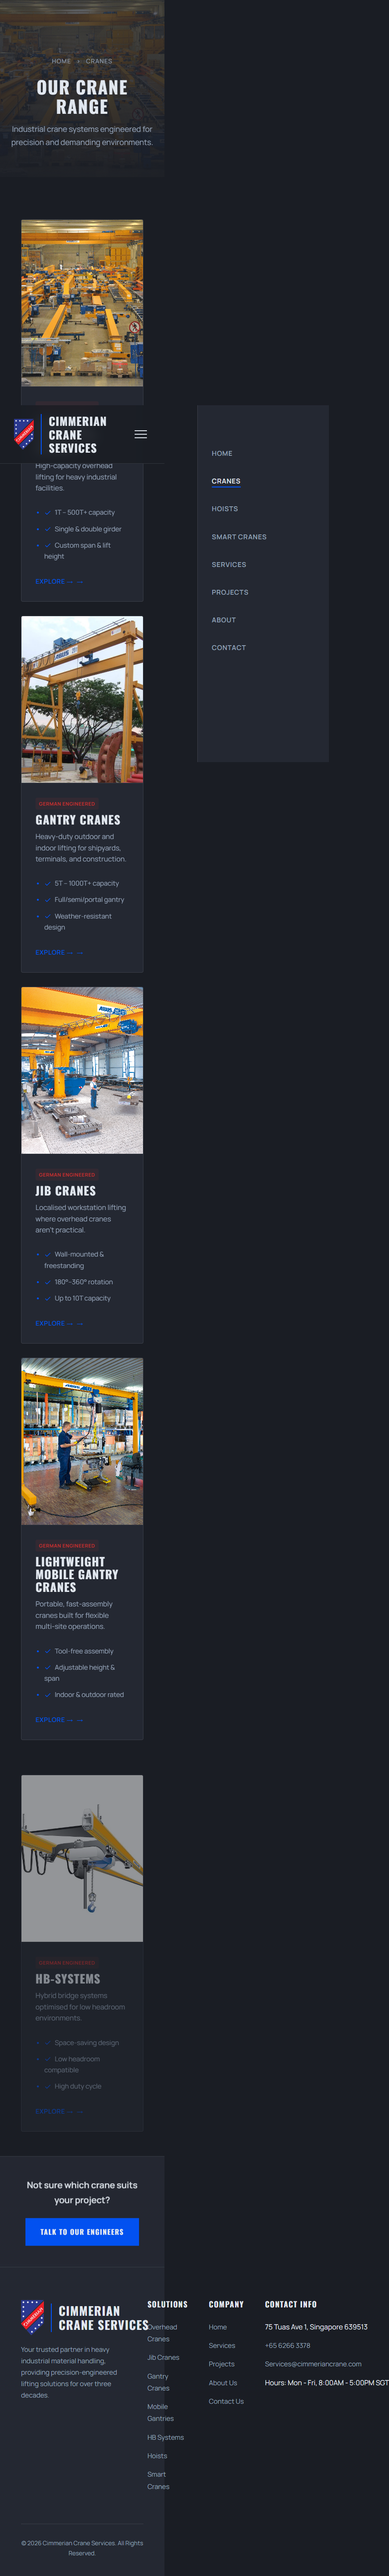
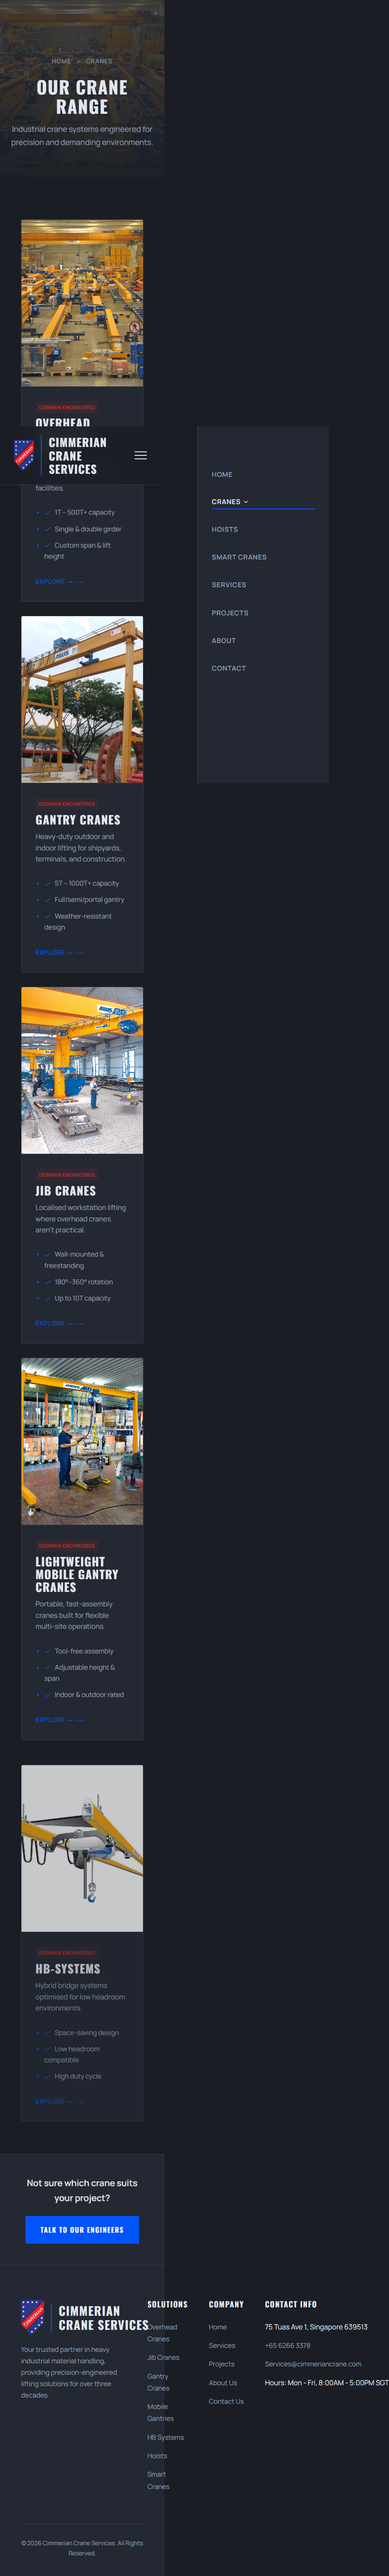
Add dropdown navigation for crane subpages
Add a hover-to-expand dropdown under the "Cranes" nav item across all
pages, with links to Overhead Cranes, Gantry Cranes, Jib Cranes, Mobile
Gantries, and HB Systems. Includes mobile tap-to-expand support.

diff --git a/smart-cranes.html b/smart-cranes.html
@@ -1,4 +1,4 @@
-<!DOCTYPE html>
+<!DOCTYPE html>
 <html lang="en">
 <head>
   <meta charset="UTF-8">
@@ -532,7 +532,19 @@
       <nav>
         <ul class="nav-menu">
           <li><a href="index.html" class="nav-link">Home</a></li>
-          <li><a href="cranes.html" class="nav-link">Cranes</a></li>
+          <li class="nav-item has-dropdown">
+            <a href="cranes.html" class="nav-link dropdown-toggle">
+              Cranes
+              <svg class="dropdown-chevron" width="14" height="14" viewBox="0 0 24 24" fill="none" stroke="currentColor" stroke-width="2.5" stroke-linecap="round" stroke-linejoin="round"><path d="m6 9 6 6 6-6"/></svg>
+            </a>
+            <ul class="dropdown-menu">
+              <li><a href="cranes/overhead-cranes.html">Overhead Cranes</a></li>
+              <li><a href="cranes/gantry-cranes.html">Gantry Cranes</a></li>
+              <li><a href="cranes/jib-cranes.html">Jib Cranes</a></li>
+              <li><a href="cranes/mobile-gantry-cranes.html">Mobile Gantries</a></li>
+              <li><a href="cranes/hb-systems.html">HB Systems</a></li>
+            </ul>
+          </li>
           <li><a href="hoists.html" class="nav-link">Hoists</a></li>
           <li><a href="smart-cranes.html" class="nav-link active">Smart Cranes</a></li>
           <li><a href="services.html" class="nav-link">Services</a></li>
@@ -954,3 +966,5 @@
   <script src="script.js"></script>
 </body>
 </html>
+
+

diff --git a/script.js b/script.js
@@ -25,11 +25,35 @@ document.addEventListener('DOMContentLoaded', () => {
       navMenu.classList.toggle('active');
     });
 
-    // Close menu when clicking a link
-    document.querySelectorAll('.nav-link').forEach(link => {
+    // Mobile Dropdown Toggle
+    const dropdownToggles = document.querySelectorAll('.dropdown-toggle');
+
+    dropdownToggles.forEach(toggle => {
+      toggle.addEventListener('click', (e) => {
+        // Only intercept on mobile to allow expansion
+        if (window.innerWidth <= 768) {
+          e.preventDefault();
+          const parent = toggle.parentElement;
+          // Close other open dropdowns
+          document.querySelectorAll('.nav-item.has-dropdown').forEach(item => {
+            if (item !== parent) {
+              item.classList.remove('active');
+            }
+          });
+          parent.classList.toggle('active');
+        }
+      });
+    });
+
+    // Close menu when clicking a link (including dropdown links)
+    document.querySelectorAll('.nav-link, .dropdown-menu a').forEach(link => {
       link.addEventListener('click', () => {
         hamburger.classList.remove('active');
         navMenu.classList.remove('active');
+        // Also close any open dropdowns
+        document.querySelectorAll('.nav-item.has-dropdown').forEach(item => {
+          item.classList.remove('active');
+        });
       });
     });
   }

diff --git a/cranes.html b/cranes.html
@@ -51,7 +51,19 @@
       <nav>
         <ul class="nav-menu">
           <li><a href="index.html" class="nav-link">Home</a></li>
-          <li><a href="cranes.html" class="nav-link active">Cranes</a></li>
+          <li class="nav-item has-dropdown">
+            <a href="cranes.html" class="nav-link active dropdown-toggle">
+              Cranes
+              <svg class="dropdown-chevron" width="14" height="14" viewBox="0 0 24 24" fill="none" stroke="currentColor" stroke-width="2.5" stroke-linecap="round" stroke-linejoin="round"><path d="m6 9 6 6 6-6"/></svg>
+            </a>
+            <ul class="dropdown-menu">
+              <li><a href="cranes/overhead-cranes.html">Overhead Cranes</a></li>
+              <li><a href="cranes/gantry-cranes.html">Gantry Cranes</a></li>
+              <li><a href="cranes/jib-cranes.html">Jib Cranes</a></li>
+              <li><a href="cranes/mobile-gantry-cranes.html">Mobile Gantries</a></li>
+              <li><a href="cranes/hb-systems.html">HB Systems</a></li>
+            </ul>
+          </li>
           <li><a href="hoists.html" class="nav-link">Hoists</a></li>
           <li><a href="smart-cranes.html" class="nav-link">Smart Cranes</a></li>
           <li><a href="services.html" class="nav-link">Services</a></li>
@@ -241,3 +253,5 @@
   <script src="script.js"></script>
 </body>
 </html>
+
+

diff --git a/cranes/gantry-cranes.html b/cranes/gantry-cranes.html
@@ -52,7 +52,19 @@
       <nav>
         <ul class="nav-menu">
           <li><a href="index.html" class="nav-link">Home</a></li>
-          <li><a href="cranes.html" class="nav-link active">Cranes</a></li>
+          <li class="nav-item has-dropdown">
+            <a href="cranes.html" class="nav-link active dropdown-toggle">
+              Cranes
+              <svg class="dropdown-chevron" width="14" height="14" viewBox="0 0 24 24" fill="none" stroke="currentColor" stroke-width="2.5" stroke-linecap="round" stroke-linejoin="round"><path d="m6 9 6 6 6-6"/></svg>
+            </a>
+            <ul class="dropdown-menu">
+              <li><a href="cranes/overhead-cranes.html">Overhead Cranes</a></li>
+              <li><a href="cranes/gantry-cranes.html">Gantry Cranes</a></li>
+              <li><a href="cranes/jib-cranes.html">Jib Cranes</a></li>
+              <li><a href="cranes/mobile-gantry-cranes.html">Mobile Gantries</a></li>
+              <li><a href="cranes/hb-systems.html">HB Systems</a></li>
+            </ul>
+          </li>
           <li><a href="hoists.html" class="nav-link">Hoists</a></li>
           <li><a href="smart-cranes.html" class="nav-link">Smart Cranes</a></li>
           <li><a href="services.html" class="nav-link">Services</a></li>
@@ -305,3 +317,5 @@
   <script src="script.js"></script>
 </body>
 </html>
+
+

diff --git a/cranes/hb-systems.html b/cranes/hb-systems.html
@@ -52,7 +52,19 @@
       <nav>
         <ul class="nav-menu">
           <li><a href="index.html" class="nav-link">Home</a></li>
-          <li><a href="cranes.html" class="nav-link active">Cranes</a></li>
+          <li class="nav-item has-dropdown">
+            <a href="cranes.html" class="nav-link active dropdown-toggle">
+              Cranes
+              <svg class="dropdown-chevron" width="14" height="14" viewBox="0 0 24 24" fill="none" stroke="currentColor" stroke-width="2.5" stroke-linecap="round" stroke-linejoin="round"><path d="m6 9 6 6 6-6"/></svg>
+            </a>
+            <ul class="dropdown-menu">
+              <li><a href="cranes/overhead-cranes.html">Overhead Cranes</a></li>
+              <li><a href="cranes/gantry-cranes.html">Gantry Cranes</a></li>
+              <li><a href="cranes/jib-cranes.html">Jib Cranes</a></li>
+              <li><a href="cranes/mobile-gantry-cranes.html">Mobile Gantries</a></li>
+              <li><a href="cranes/hb-systems.html">HB Systems</a></li>
+            </ul>
+          </li>
           <li><a href="hoists.html" class="nav-link">Hoists</a></li>
           <li><a href="smart-cranes.html" class="nav-link">Smart Cranes</a></li>
           <li><a href="services.html" class="nav-link">Services</a></li>
@@ -305,3 +317,5 @@
   <script src="script.js"></script>
 </body>
 </html>
+
+

diff --git a/cranes/jib-cranes.html b/cranes/jib-cranes.html
@@ -52,7 +52,19 @@
       <nav>
         <ul class="nav-menu">
           <li><a href="index.html" class="nav-link">Home</a></li>
-          <li><a href="cranes.html" class="nav-link active">Cranes</a></li>
+          <li class="nav-item has-dropdown">
+            <a href="cranes.html" class="nav-link active dropdown-toggle">
+              Cranes
+              <svg class="dropdown-chevron" width="14" height="14" viewBox="0 0 24 24" fill="none" stroke="currentColor" stroke-width="2.5" stroke-linecap="round" stroke-linejoin="round"><path d="m6 9 6 6 6-6"/></svg>
+            </a>
+            <ul class="dropdown-menu">
+              <li><a href="cranes/overhead-cranes.html">Overhead Cranes</a></li>
+              <li><a href="cranes/gantry-cranes.html">Gantry Cranes</a></li>
+              <li><a href="cranes/jib-cranes.html">Jib Cranes</a></li>
+              <li><a href="cranes/mobile-gantry-cranes.html">Mobile Gantries</a></li>
+              <li><a href="cranes/hb-systems.html">HB Systems</a></li>
+            </ul>
+          </li>
           <li><a href="hoists.html" class="nav-link">Hoists</a></li>
           <li><a href="smart-cranes.html" class="nav-link">Smart Cranes</a></li>
           <li><a href="services.html" class="nav-link">Services</a></li>
@@ -305,3 +317,5 @@
   <script src="script.js"></script>
 </body>
 </html>
+
+

diff --git a/cranes/mobile-gantry-cranes.html b/cranes/mobile-gantry-cranes.html
@@ -52,7 +52,19 @@
       <nav>
         <ul class="nav-menu">
           <li><a href="index.html" class="nav-link">Home</a></li>
-          <li><a href="cranes.html" class="nav-link active">Cranes</a></li>
+          <li class="nav-item has-dropdown">
+            <a href="cranes.html" class="nav-link active dropdown-toggle">
+              Cranes
+              <svg class="dropdown-chevron" width="14" height="14" viewBox="0 0 24 24" fill="none" stroke="currentColor" stroke-width="2.5" stroke-linecap="round" stroke-linejoin="round"><path d="m6 9 6 6 6-6"/></svg>
+            </a>
+            <ul class="dropdown-menu">
+              <li><a href="cranes/overhead-cranes.html">Overhead Cranes</a></li>
+              <li><a href="cranes/gantry-cranes.html">Gantry Cranes</a></li>
+              <li><a href="cranes/jib-cranes.html">Jib Cranes</a></li>
+              <li><a href="cranes/mobile-gantry-cranes.html">Mobile Gantries</a></li>
+              <li><a href="cranes/hb-systems.html">HB Systems</a></li>
+            </ul>
+          </li>
           <li><a href="hoists.html" class="nav-link">Hoists</a></li>
           <li><a href="smart-cranes.html" class="nav-link">Smart Cranes</a></li>
           <li><a href="services.html" class="nav-link">Services</a></li>
@@ -305,3 +317,5 @@
   <script src="script.js"></script>
 </body>
 </html>
+
+

diff --git a/cranes/overhead-cranes.html b/cranes/overhead-cranes.html
@@ -52,7 +52,19 @@
       <nav>
         <ul class="nav-menu">
           <li><a href="index.html" class="nav-link">Home</a></li>
-          <li><a href="cranes.html" class="nav-link active">Cranes</a></li>
+          <li class="nav-item has-dropdown">
+            <a href="cranes.html" class="nav-link active dropdown-toggle">
+              Cranes
+              <svg class="dropdown-chevron" width="14" height="14" viewBox="0 0 24 24" fill="none" stroke="currentColor" stroke-width="2.5" stroke-linecap="round" stroke-linejoin="round"><path d="m6 9 6 6 6-6"/></svg>
+            </a>
+            <ul class="dropdown-menu">
+              <li><a href="cranes/overhead-cranes.html">Overhead Cranes</a></li>
+              <li><a href="cranes/gantry-cranes.html">Gantry Cranes</a></li>
+              <li><a href="cranes/jib-cranes.html">Jib Cranes</a></li>
+              <li><a href="cranes/mobile-gantry-cranes.html">Mobile Gantries</a></li>
+              <li><a href="cranes/hb-systems.html">HB Systems</a></li>
+            </ul>
+          </li>
           <li><a href="hoists.html" class="nav-link">Hoists</a></li>
           <li><a href="smart-cranes.html" class="nav-link">Smart Cranes</a></li>
           <li><a href="services.html" class="nav-link">Services</a></li>
@@ -305,3 +317,5 @@
   <script src="script.js"></script>
 </body>
 </html>
+
+

diff --git a/hoists.html b/hoists.html
@@ -51,7 +51,19 @@
       <nav>
         <ul class="nav-menu">
           <li><a href="index.html" class="nav-link">Home</a></li>
-          <li><a href="cranes.html" class="nav-link">Cranes</a></li>
+          <li class="nav-item has-dropdown">
+            <a href="cranes.html" class="nav-link dropdown-toggle">
+              Cranes
+              <svg class="dropdown-chevron" width="14" height="14" viewBox="0 0 24 24" fill="none" stroke="currentColor" stroke-width="2.5" stroke-linecap="round" stroke-linejoin="round"><path d="m6 9 6 6 6-6"/></svg>
+            </a>
+            <ul class="dropdown-menu">
+              <li><a href="cranes/overhead-cranes.html">Overhead Cranes</a></li>
+              <li><a href="cranes/gantry-cranes.html">Gantry Cranes</a></li>
+              <li><a href="cranes/jib-cranes.html">Jib Cranes</a></li>
+              <li><a href="cranes/mobile-gantry-cranes.html">Mobile Gantries</a></li>
+              <li><a href="cranes/hb-systems.html">HB Systems</a></li>
+            </ul>
+          </li>
           <li><a href="hoists.html" class="nav-link active">Hoists</a></li>
           <li><a href="smart-cranes.html" class="nav-link">Smart Cranes</a></li>
           <li><a href="services.html" class="nav-link">Services</a></li>
@@ -197,3 +209,5 @@
   <script src="script.js"></script>
 </body>
 </html>
+
+

diff --git a/index.html b/index.html
@@ -51,7 +51,19 @@
       <nav>
         <ul class="nav-menu">
           <li><a href="index.html" class="nav-link active">Home</a></li>
-          <li><a href="cranes.html" class="nav-link">Cranes</a></li>
+          <li class="nav-item has-dropdown">
+            <a href="cranes.html" class="nav-link dropdown-toggle">
+              Cranes
+              <svg class="dropdown-chevron" width="14" height="14" viewBox="0 0 24 24" fill="none" stroke="currentColor" stroke-width="2.5" stroke-linecap="round" stroke-linejoin="round"><path d="m6 9 6 6 6-6"/></svg>
+            </a>
+            <ul class="dropdown-menu">
+              <li><a href="cranes/overhead-cranes.html">Overhead Cranes</a></li>
+              <li><a href="cranes/gantry-cranes.html">Gantry Cranes</a></li>
+              <li><a href="cranes/jib-cranes.html">Jib Cranes</a></li>
+              <li><a href="cranes/mobile-gantry-cranes.html">Mobile Gantries</a></li>
+              <li><a href="cranes/hb-systems.html">HB Systems</a></li>
+            </ul>
+          </li>
           <li><a href="hoists.html" class="nav-link">Hoists</a></li>
           <li><a href="smart-cranes.html" class="nav-link">Smart Cranes</a></li>
           <li><a href="services.html" class="nav-link">Services</a></li>
@@ -261,3 +273,5 @@
   <script src="script.js"></script>
 </body>
 </html>
+
+

diff --git a/services.html b/services.html
@@ -51,7 +51,19 @@
       <nav>
         <ul class="nav-menu">
           <li><a href="index.html" class="nav-link">Home</a></li>
-          <li><a href="cranes.html" class="nav-link">Cranes</a></li>
+          <li class="nav-item has-dropdown">
+            <a href="cranes.html" class="nav-link dropdown-toggle">
+              Cranes
+              <svg class="dropdown-chevron" width="14" height="14" viewBox="0 0 24 24" fill="none" stroke="currentColor" stroke-width="2.5" stroke-linecap="round" stroke-linejoin="round"><path d="m6 9 6 6 6-6"/></svg>
+            </a>
+            <ul class="dropdown-menu">
+              <li><a href="cranes/overhead-cranes.html">Overhead Cranes</a></li>
+              <li><a href="cranes/gantry-cranes.html">Gantry Cranes</a></li>
+              <li><a href="cranes/jib-cranes.html">Jib Cranes</a></li>
+              <li><a href="cranes/mobile-gantry-cranes.html">Mobile Gantries</a></li>
+              <li><a href="cranes/hb-systems.html">HB Systems</a></li>
+            </ul>
+          </li>
           <li><a href="hoists.html" class="nav-link">Hoists</a></li>
           <li><a href="smart-cranes.html" class="nav-link">Smart Cranes</a></li>
           <li><a href="services.html" class="nav-link active">Services</a></li>
@@ -226,3 +238,4 @@
   <script src="script.js"></script>
 </body>
 </html>
+

diff --git a/about.html b/about.html
@@ -51,7 +51,19 @@
       <nav>
         <ul class="nav-menu">
           <li><a href="index.html" class="nav-link">Home</a></li>
-          <li><a href="cranes.html" class="nav-link">Cranes</a></li>
+          <li class="nav-item has-dropdown">
+            <a href="cranes.html" class="nav-link dropdown-toggle">
+              Cranes
+              <svg class="dropdown-chevron" width="14" height="14" viewBox="0 0 24 24" fill="none" stroke="currentColor" stroke-width="2.5" stroke-linecap="round" stroke-linejoin="round"><path d="m6 9 6 6 6-6"/></svg>
+            </a>
+            <ul class="dropdown-menu">
+              <li><a href="cranes/overhead-cranes.html">Overhead Cranes</a></li>
+              <li><a href="cranes/gantry-cranes.html">Gantry Cranes</a></li>
+              <li><a href="cranes/jib-cranes.html">Jib Cranes</a></li>
+              <li><a href="cranes/mobile-gantry-cranes.html">Mobile Gantries</a></li>
+              <li><a href="cranes/hb-systems.html">HB Systems</a></li>
+            </ul>
+          </li>
           <li><a href="hoists.html" class="nav-link">Hoists</a></li>
           <li><a href="smart-cranes.html" class="nav-link">Smart Cranes</a></li>
           <li><a href="services.html" class="nav-link">Services</a></li>
@@ -231,3 +243,5 @@
   <script src="script.js"></script>
 </body>
 </html>
+
+
